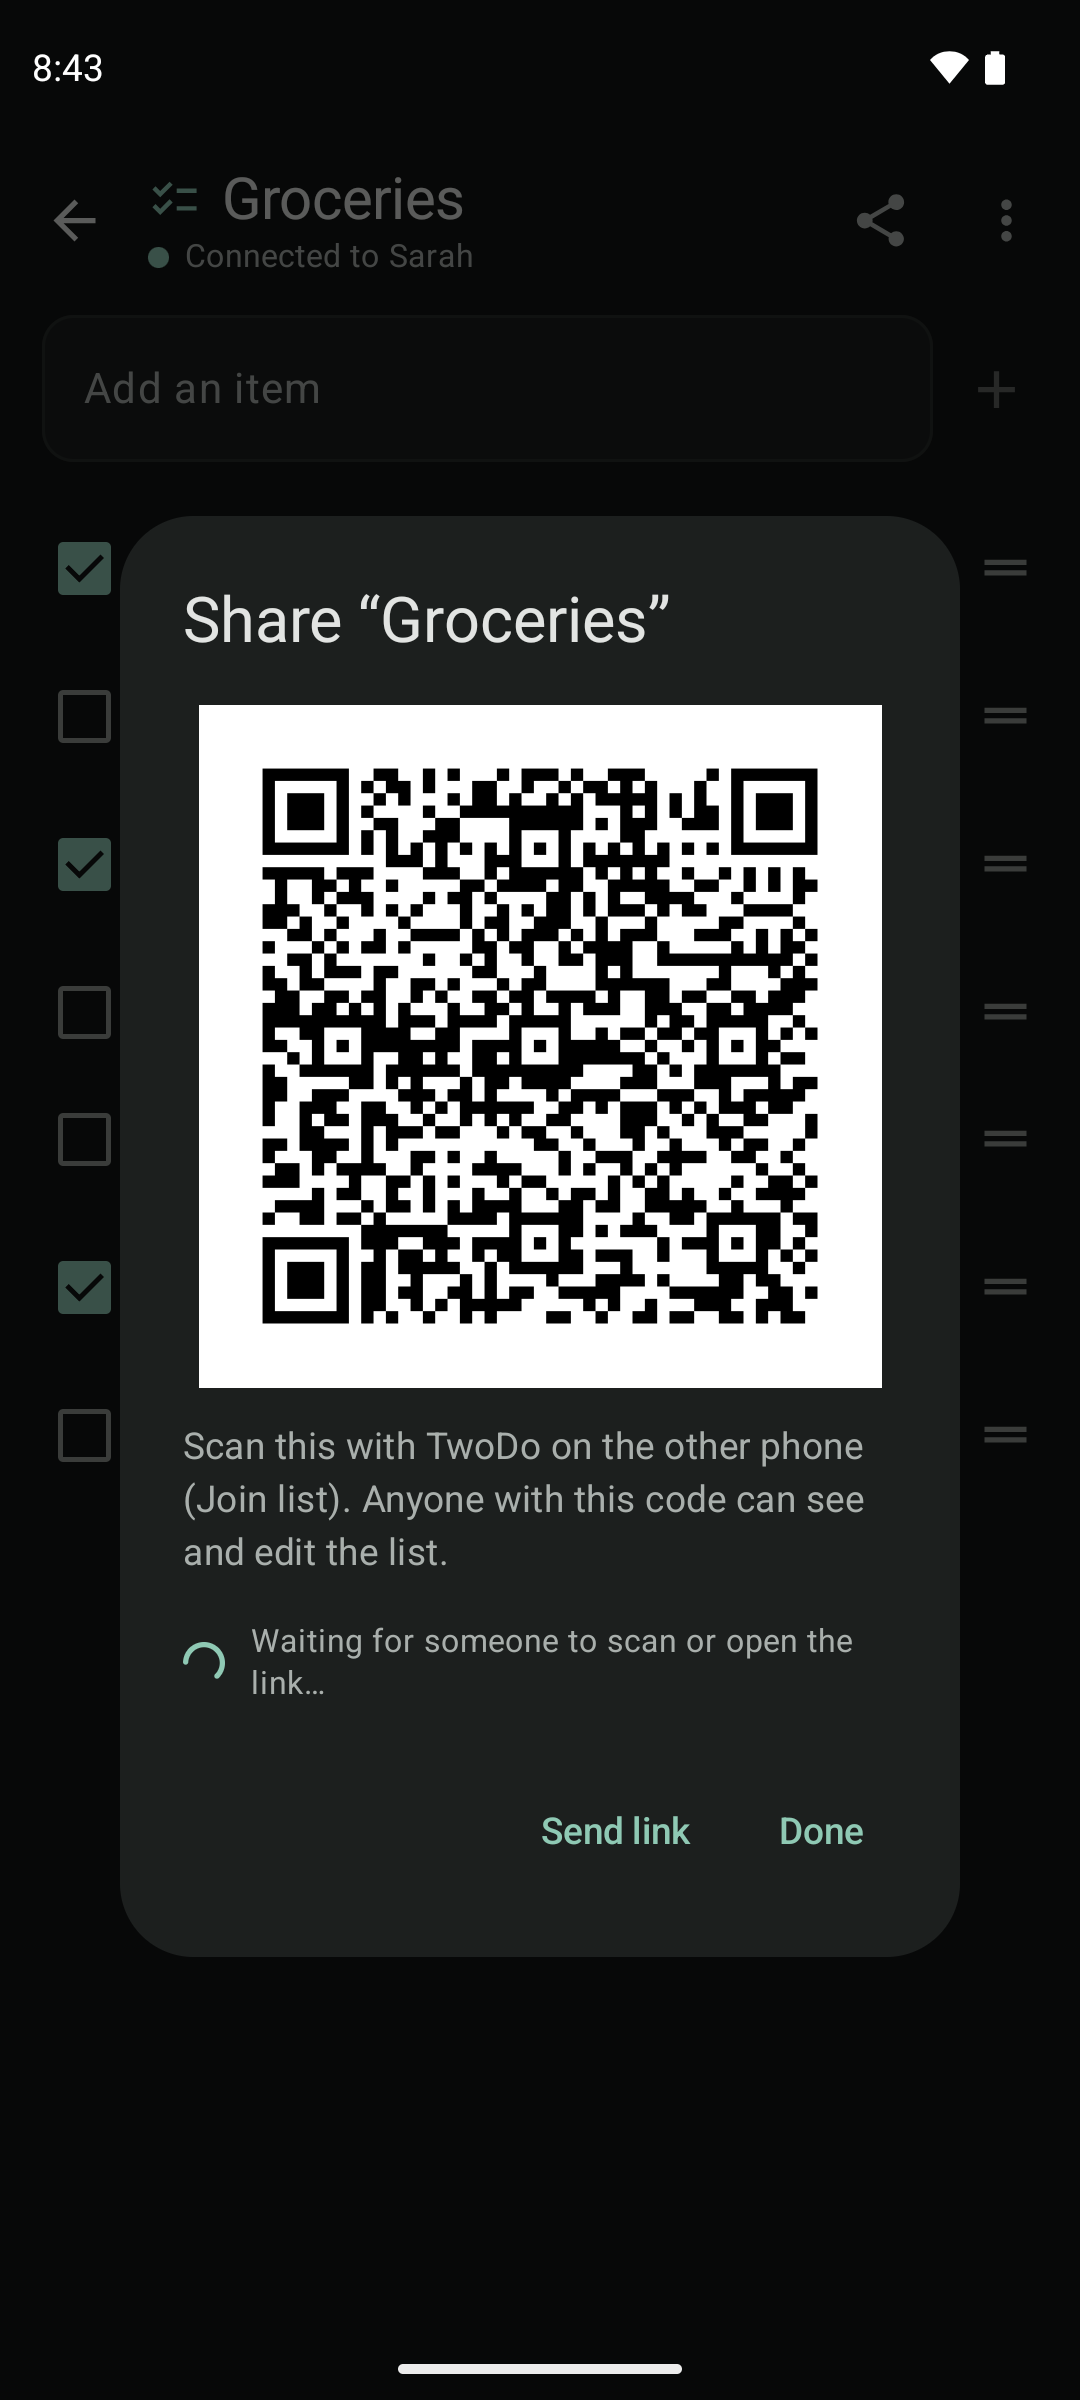
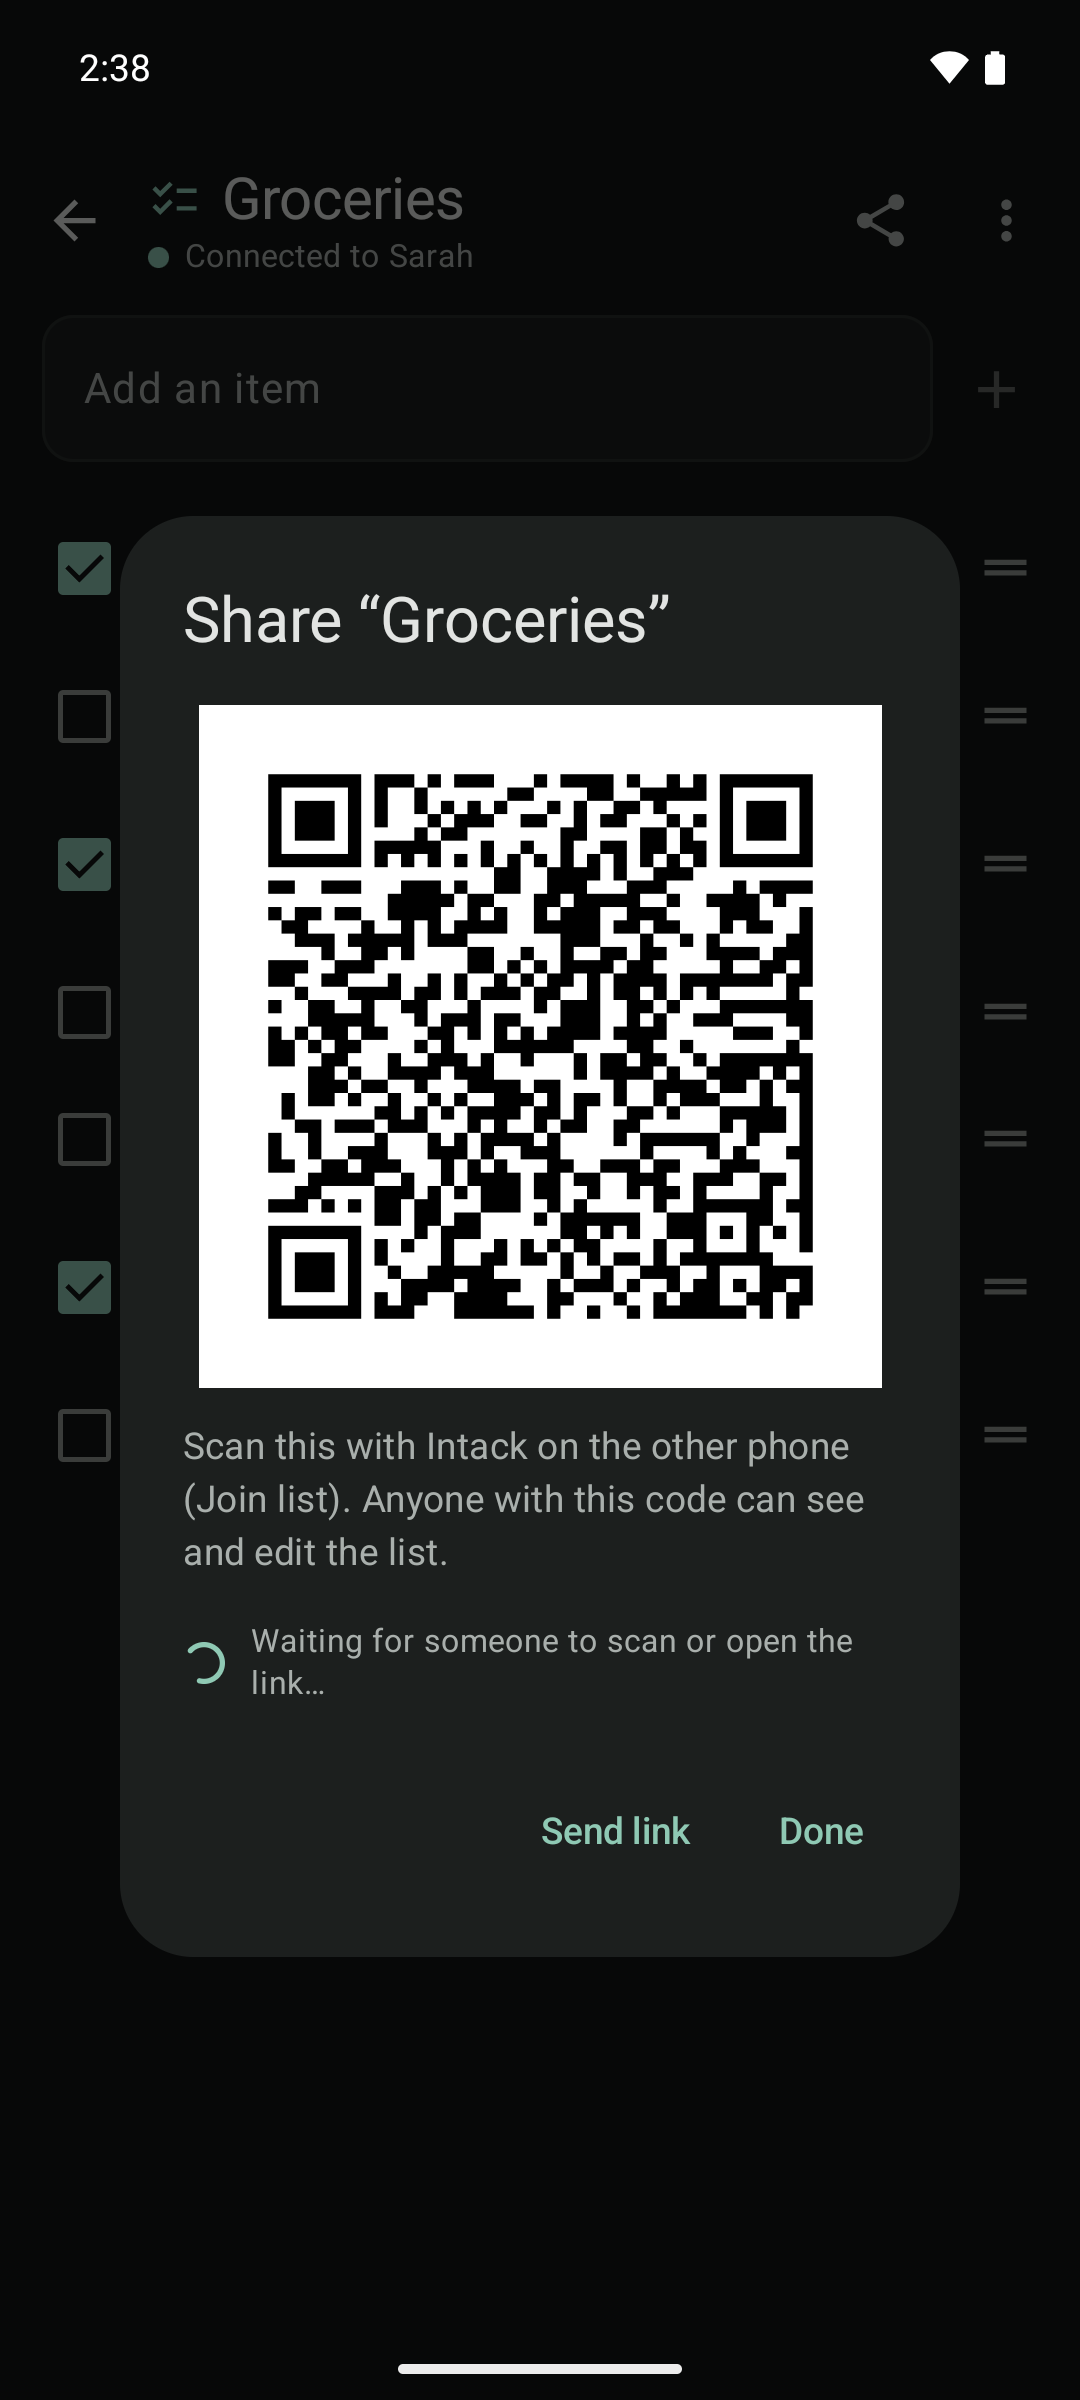
Retake store screenshots as Intack; random demo list keys
Fixed demo keys put every screenshot run on the same relay topic, so relays replayed earlier runs'
edits and members (duplicate history, "Connected to 3 devices").

Changed region(s): [[0.2444, 0.3125, 0.7639, 0.5625], [0.3972, 0.5938, 0.7944, 0.625], [0.0306, 0.0, 0.0917, 0.0312]]

diff --git a/scripts/demo_data.py b/scripts/demo_data.py
@@ -21,8 +21,10 @@ ME, SARAH, TOM = "demo-device-me", "demo-device-sarah", "demo-device-tom"
 NAMES = {ME: "Me", SARAH: "Sarah", TOM: "Tom"}
 
 
-def secret(seed):
-    return base64.urlsafe_b64encode(seed.encode().ljust(32, b"x")[:32]).decode().rstrip("=")
+def secret():
+    # Fresh every run: a fixed key would put each run on the same relay topic, and the relays would
+    # replay earlier runs' edits and members into the screenshots.
+    return base64.urlsafe_b64encode(os.urandom(32)).decode().rstrip("=")
 
 
 def describe(item):
@@ -35,7 +37,7 @@ def describe(item):
 
 def make(name, kind, theme, entries):
     """entries: (text, by, minutes_ago, extra) — extra holds checked/date/time."""
-    lid = str(uuid.uuid5(uuid.NAMESPACE_URL, "demo/" + name))
+    lid = str(uuid.uuid4())
     items, audit = {}, {}
     for pos, (text, by, ago, extra) in enumerate(entries):
         iid = str(uuid.uuid5(uuid.NAMESPACE_URL, f"demo/{name}/{text}"))
@@ -46,7 +48,7 @@ def make(name, kind, theme, entries):
         items[iid] = item
         aid = f"{iid}/{ts}/{by}"
         audit[aid] = {"id": aid, "itemId": iid, "ts": ts, "by": by, "byName": NAMES[by], "description": describe(item)}
-    data = {"id": lid, "name": name, "secret": secret(name), "items": items, "audit": audit,
+    data = {"id": lid, "name": name, "secret": secret(), "items": items, "audit": audit,
             "members": {SARAH: "Sarah", TOM: "Tom"}, "createdHere": True, "fullSynced": True, "kind": kind}
     return data, theme
 

diff --git a/docs/play/PLAY_STORE.md b/docs/play/PLAY_STORE.md
@@ -23,7 +23,7 @@ screenshots (`docs/play/screenshots/`, 1080×2400), feature graphic 1024×500
 (`docs/play/feature-graphic.png`, rendered from `feature-graphic.html`; re-render after retaking the
 screenshots — the command is at the top of that file).
 
-The screenshots use demo family data and still show the old name (TwoDo), so retake them: start two
+The screenshots use demo family data. To retake them (e.g. after UI changes): start two
 emulators with the debug build installed and run `bash scripts/screenshots.sh` (it replaces the debug
 app's data on both; `ADB=` can point at adb if it isn't on the PATH).
 
